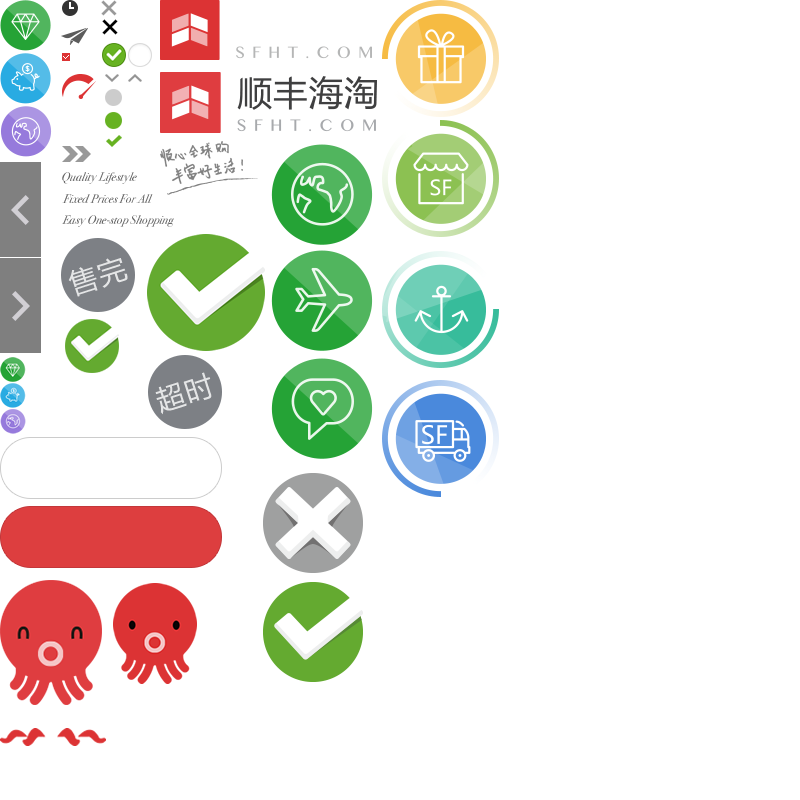
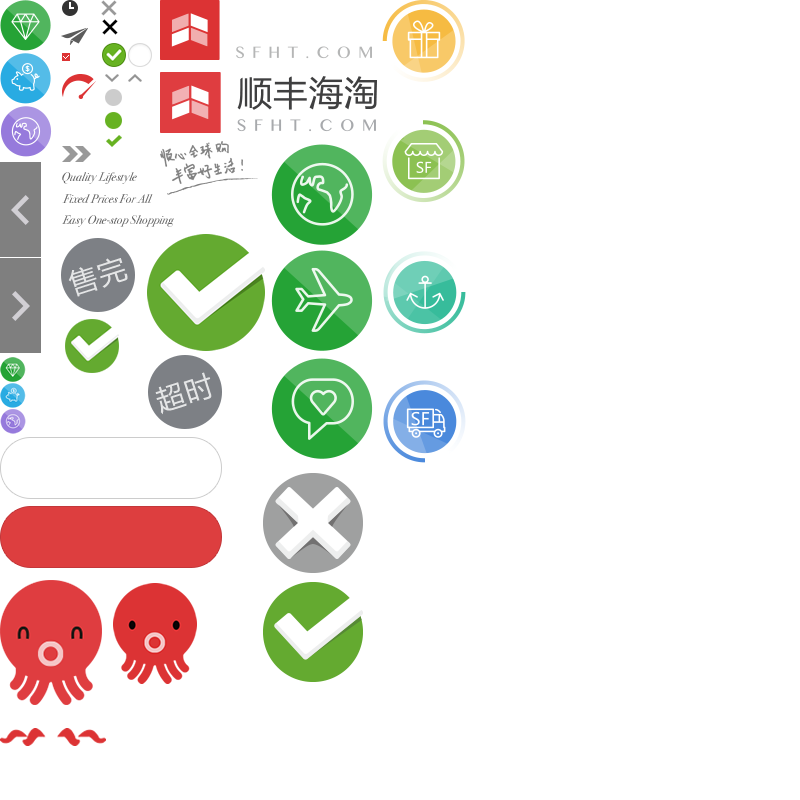
底部图标修改

Changed region(s): [[0.4688, 0.0, 0.625, 0.625]]

diff --git a/app/css/common.css b/app/css/common.css
@@ -144,23 +144,23 @@ img{vertical-align: middle;}
 	background-position: -160px -141px;
 }
 .icon12{
-	width: 117px;
-	height: 117px;
+	width: 83px;
+	height: 83px;
 	background-position: -382px 0;
 }
 .icon13{
-	width: 117px;
-	height: 117px;
+	width: 83px;
+	height: 83px;
 	background-position: -382px -120px;
 }
 .icon14{
-	width: 117px;
-	height: 117px;
+	width: 83px;
+	height: 83px;
 	background-position: -382px -250px;
 }
 .icon15{
-	width: 117px;
-	height: 117px;
+	width: 83px;
+	height: 83px;
 	background-position: -382px -380px;
 }
 .icon16,
@@ -773,6 +773,7 @@ body.sub{
 	width: 117px;
 	margin-left: 228px;
 	font-size: 18px;
+	text-align: center;
 }
 .footer1 .icon8{
 	position: absolute;
@@ -781,6 +782,7 @@ body.sub{
 }
 .footer1 h2{
 	margin-top: 20px;
+	color: #949494;
 }
 
 /*footer2*/

diff --git a/prototype/css/common.css b/prototype/css/common.css
@@ -144,23 +144,23 @@ img{vertical-align: middle;}
 	background-position: -160px -141px;
 }
 .icon12{
-	width: 117px;
-	height: 117px;
+	width: 83px;
+	height: 83px;
 	background-position: -382px 0;
 }
 .icon13{
-	width: 117px;
-	height: 117px;
+	width: 83px;
+	height: 83px;
 	background-position: -382px -120px;
 }
 .icon14{
-	width: 117px;
-	height: 117px;
+	width: 83px;
+	height: 83px;
 	background-position: -382px -250px;
 }
 .icon15{
-	width: 117px;
-	height: 117px;
+	width: 83px;
+	height: 83px;
 	background-position: -382px -380px;
 }
 .icon16,
@@ -775,6 +775,7 @@ body.sub{
 	width: 117px;
 	margin-left: 228px;
 	font-size: 18px;
+	text-align: center;
 }
 .footer1 .icon8{
 	position: absolute;
@@ -783,6 +784,7 @@ body.sub{
 }
 .footer1 h2{
 	margin-top: 20px;
+	color: #949494;
 }
 
 /*footer2*/
